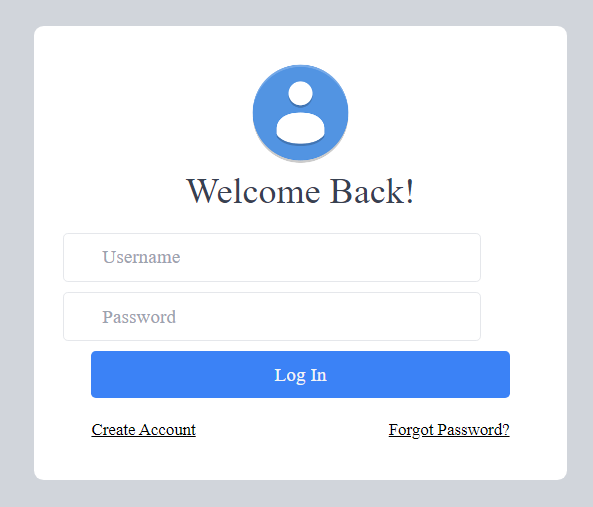
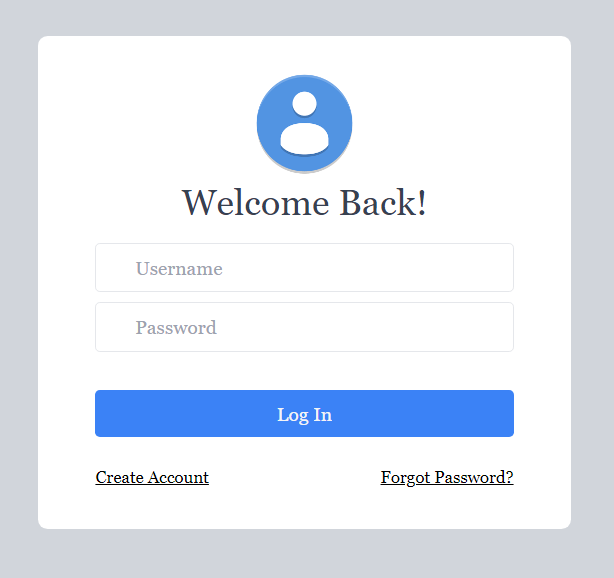
updates

diff --git a/articles/how-to-create-a-responsive-form-using-TailwindCSS/index.md b/articles/how-to-create-a-responsive-form-using-TailwindCSS/index.md
@@ -1,23 +1,20 @@
-# 
 ### Introduction
+Tailwind CSS is one of the most popular frameworks for building custom user interfaces for web applications. It is different from other CSS frameworks because of its utility-first approach.
 
-The usual approach to building websites when working with HTML and CSS is to write the structure in a HTML file then implementing the styles in a CSS file.But now,the new framework-Tailwind CSS allows us to add the styles using classes right in your HTML. 
+When building websites we use write the structure in a HTML file then implement the styles in a CSS file. But now thanks to the new CSS framework Tailwind, we can now add styles directly into our HTML file. 
 
-Tailwind CSS is one of the most popular frameworks for building custom user interfaces for a web application. It is different from other CSS frameworks such as Bootstrap because of the new way of building using utility-first approach rather than the object-oriented one.
-
-During this tutorial,we'll be using Tailwind to build a login form from scratch that will look like this when complete:
+Through this tutorial, we'll be using Tailwind to build a login form from scratch. The form will look like this when complete:
 
 ![Login form](form.png)
 
 ### Adding Tailwind CSS to your project.
+There are various ways of including Tailwind into your project. The most recommended method is to use a package manager in order to make full use of the configuration possibilities via PostCSS using build tools.
+Visit this [link](https://github.com/section-engineering-education/engineering-education/blob/master/articles/introduction-to-tailwind-css/index.md) for the full installation process.
 
-There are multiple ways of including Tailwind into your project.The most recommended method is to use a package manager and then make full use of the configuration possibilities via PostCSS using building tools.
-Visit the link below for the full installation process;https://github.com/section-engineering-education/engineering-education/blob/master/articles/introduction-to-tailwind-css/index.md
+Let's get started on our form!
 
-Now,let's get started on our form!
-
-#### Step 1: Setting up our HTML.
-```HTML
+### Setting up our HTML.
+```html
 <!DOCTYPE html>
 <html lang="en">
   <head>
@@ -28,90 +25,86 @@ Now,let's get started on our form!
       rel="stylesheet" 
       href="./css/tailwind.css" />    
   </head>
-  ```
+</html>
+```
 
-In our snippet, we gave our form a title "Login Form"
+In our snippet, we gave our page a title "Login Form".
 
-Next add the following classes to the ````<body>```` :
-```HTML
- <body class="bg-gray-300" style="font-family:Roboto">
+Now add the `<body>` tag and type in the following classes:
+```html
+ <body class="bg-gray-300" style="font-family:Georgia, 'Times New Roman', Times, serif;">
  ```
 
-In the above snippet, we have added a background  for some color and the font for our form.
+In the above snippet, we have added a background color and the font for our form.
 
-Now add a ``<div>`` with the following classes that wraps around the header(logo), and the form.
+Next add a `<div>` with the following classes to style the header(logo), and the form.
 
-```HTML
-<div class="w-full h-screen flex items-center justify-center">
+```html
+<div class="h-screen flex items-center justify-center">
 ```
 
-In the ``<div>`` we have added classes :
-  - ``w-full``, ``h-screen`` , ``flex`` ``items-center`` ``justify-center`` -which will allow us to set the form to 100% width, 100% height and the rest will allow us to horizontally and vertically align our form to the centre respectively.
+In the `<div>` we have added classes :
+- `h-screen` to set the form to 100% height
+- `flex`, `items-center`, and `justify-center` allow us to horizontally and vertically align our form to the center.
   
-So now lets add our header and the logo:
+So now let's add our header and the logo.
 
-```HTML
- <form class="w-full md:w-96 bg-white rounded-lg">
-         <div class="flex font-bold justify-center mt-6">
-            <img class="h-24 w-24"
-               src="./Images/avatar1.png">
-         </div>
-         <h2 class="text-3xl text-center text-gray-700 mb-4">Welcome Back!</h2>
+```html
+<form class="w-full md:w-1/3 bg-white rounded-lg items-center">
+<div class="flex font-bold justify-center mt-6">
+   <img class="h-24 w-24"
+      src="./Images/avatar1.png">
+</div>
+<h2 class="text-3xl text-center text-gray-700 mb-4">Welcome Back!</h2>
 ```
 
-In the above snippet the classes;
-- ``w-full`` will set the form widt to 100%,
-- ``bg-white`` will set the bacground of our form to white,
-- ``rounded-lg`` will set the edges of the form to be rounded,
-- ``md:w-96`` will set the minimum width to 384px.
-
-Inside the ``<div>`` our logo is designed as follows:
-- ``flex`` will allow items to grow and shrink hence preventing overflow.
-- ``font-bold`` sets our heading to bold
-- ``justify-center`` aligns the heading and logo to center
-- ``mt-6`` sets the margin from top to 24px.
+In the above snippet, the `form` container contains classes;
+- `w-full` which sets the form width to 100%,
+- `bg-white` which sets the background of our form to white,
+- `rounded-lg` which sets the edges of the form to be rounded,
+- `md:w-1/3` which sets the minimum width to 33.333%
+- `items-center` which aligns our form to the center.
   
- We then used the ``<img>`` tag to add and design our logo. the height and the width are both set to 94px (``h-24``,``w-24``).
+Inside the `<div>` our logo is designed as follows:
+- `flex` allows items to grow and shrink hence preventing overflow,
+- `font-bold` sets our heading to bold,
+- `justify-center` aligns the heading and logo to the center,
+- `mt-6` sets the top margin to 24px.
+  
+We then used the `<img>` tag to add and design our logo. The height and the width are both set to 94px (`h-24`, `w-24`).
 
-Our header "Welcome Back!" is set to:
-- font size 30px and line height 36px-``text 3x1``
-- center- ``text-center``
-- color gray-``text-gray-700``
-- margin-bottom to 16px-``mb-4``
+Our header "Welcome Back!": 
+- has a font size of 30px and a line height of 36px-`text 3x1`
+- is center aligned- `text-center`
+- is gray in color-`text-gray-700`
+- has a bottom margin of 16px-`mb-4`
 
-Now, lets build the input fields and style them!
+Let's build the input fields and style them!
 
 Our code will look like this;
 
-```HTML
- <div class="px-12 pb-10">
-            <div class="w-full mb-2">
-               <div class="flex items-center">
-                  <input type='text' placeholder="Username"
-                     class="-mx-6 px-8  w-full border rounded py-2 text-gray-700 focus:outline-none" />
-               </div>
-            </div>
-            <div class="w-full mb-2">
-               <div class="flex items-center">   
-                  <input type='password' placeholder="Password"
-                     class="-mx-6 px-8 w-full border rounded py-2 text-gray-700 focus:outline-none" />
-               </div>
-            </div>
+```html
+<div class="px-12 pb-10">
+<div class="w-full mb-2">
+   <div class="flex justify-center">
+      <input type='text' placeholder="Username"
+         class="px-8  w-full border rounded py-2 text-gray-700 focus:outline-none items-center" />
+   </div>
+</div>
+<div class="w-full mb-2">
+<div class="flex justify-center">   
+   <input type='password' placeholder="Password"
+      class="px-8 w-full border rounded py-2 text-gray-700 focus:outline-none" />
+</div>
 ```            
 
-- So basically our input fields (Username and password) have the same style.
-   
-   1. all items are aligned center using ``items-center`` and display is flex.
-   
-   2. Text is gray in color.(``text-gray-400``).
-
-   3. width is set to 100% (w-full) and the margin bottom to 10px (``mb-2``)- The margin of the Username field from password field.
-
-   4. The borders of both input fields are set to a width of 1px using ``border``.
-
-  
-   5. The margin left and right of the text in the fields are set to 24px using class ``mx-3``, and the padding left and right to 32px using ``px-8``.
-   6. borders are rounded and the border radius set to 4px using class  ``rounded``.
+So basically, our input fields (Username and password) have the same style.
+ * All items are aligned center using `justify-center` and display is flex.   
+ * Text is gray in color. (`text-gray-400`).
+ * Width is set to 100% (`w-full`) and the bottom margin to 10px (`mb-2`).
+ * The borders of both input fields are set to a width of 1px using `border`.
+ * The left and right padding are set to 32px using `px-8`, while the top and bottom margin is 8px-`py-2`.
+ * Borders are rounded and the border radius set to 4px using class `rounded`.
 
 The input fields are done!
 
@@ -119,74 +112,73 @@ Now we add a button at the bottom for our users to log in!
 
 Our code is as follows;
 
-```HTML
- <button type="submit"
-               class="w-full py-2  rounded bg-blue-500 text-gray-100  focus:outline-none ">Log In</button>
+```html
+<button type="submit"
+   class="w-full mt-6 py-2  rounded bg-blue-500 text-gray-100  focus:outline-none ">Log In</button>
 ```
 
-- the button will have rounded borders from class ``rounded-full``,
-- the top and bottom padding to 8px (``py-2``),
-- the button also has a blue background color set by ``bg-blue-500`` and a text color of grey.
-- full width of 100% (``w-full``)
-- and no outline focus``(focus:outline-none``).
+- the button will have rounded borders from class `rounded-full`,
+- the top and bottom padding to 8px (`py-2`),
+- it also has a top margin of 24px (`mt-6`),
+- the button also has a blue background color set by `bg-blue-500` and a text color of grey,
+- full width of 100% (`w-full`),
+- and no outline focus (`focus:outline-none`).
 
-Finally, lets finish our form by adding a link for new users and for users who forgot their passwords!
+Finally, let's finish our form by adding a link for new users and for users who forgot their passwords!
 
-```HTML
-<a href="#" class="text-sm text-opacity-100 float-right mt-4 mb-4 hover:text-blue-600 underline">Forgot Password?</a>
-               <a href="#" class="text-sm text-opacity-100 float-left mt-4 mb-8 hover:text-blue-600 underline">Create Account</a>
+```html
+<a href="#" class="text-sm text-opacity-100 float-right mt-6 mb-4 hover:text-blue-600 underline">Forgot Password?</a>
+<a href="#" class="text-sm text-opacity-100 float-left mt-6 mb-8 hover:text-blue-600 underline">Create Account</a>
 ```
 
-- the links are set to blue on hover (``hover:text-blue-600)
-- the links are underlined (``underline``) with a text size set to small (``text-sm``)
-
-
+- the links are set to blue on hover (`hover:text-blue-600`),
+- the links are underlined (`underline`) with a text size set to small (`text-sm`),
+- both top margins are set to 24px `mt-6`,
+  
 Our form is done!
 
 Here is our full code;
 
-```HTML
-
+```html
 <!DOCTYPE html>
 <html lang="en">
-  <head>
-    <meta charset="UTF-8" />
-    <meta name="viewport" content="width=device-width, initial-scale=1">
-    <title> Login Form</title>
-    <link 
-      rel="stylesheet" 
-      href="./css/tailwind.css" />    
-  </head>
+   <head>
+      <meta charset="UTF-8" />
+      <meta name="viewport" content="width=device-width, initial-scale=1">
+      <title> Login Form</title>
+      <link 
+         rel="stylesheet" 
+         href="./css/tailwind.css" />
+   </head>
    <body class="bg-gray-300" style="font-family:Roboto">
-      <div class="w-full h-screen flex items-center justify-center">
-      <form class="w-full md:w-96 bg-white rounded-lg">
-         <div class="flex font-bold justify-center mt-6">
-            <img class="h-24 w-24"
-               src="./Images/avatar1.png">
+      <div class="px-12 pb-10">
+         <div class="w-full mb-2">
+            <div class="flex justify-center">
+               <input type='text' placeholder="Username"
+                  class="px-8  w-full border rounded py-2 text-gray-700 focus:outline-none items-center" />
+            </div>
          </div>
-         <h2 class="text-3xl text-center text-gray-700 mb-4">Welcome Back!</h2>
-         <div class="px-12 pb-10">
-            <div class="w-full mb-2">
-               <div class="flex items-center">
-                  <input type='text' placeholder="Username"
-                     class="-mx-6 px-8  w-full border rounded py-2 text-gray-700 focus:outline-none" />
-               </div>
+         <div class="w-full mb-2">
+            <div class="flex justify-center">   
+               <input type='password' placeholder="Password"
+                  class="px-8 w-full border rounded py-2 text-gray-700 focus:outline-none" />
             </div>
-            <div class="w-full mb-2">
-               <div class="flex items-center">   
-                  <input type='password' placeholder="Password"
-                     class="-mx-6 px-8 w-full border rounded py-2 text-gray-700 focus:outline-none" />
-               </div>
+         </div>
+         <div class="w-full mb-2 justify-center">
+            <div class="flex items-center">   
+               <input type='password' placeholder="Password"
+                  class="px-8 w-full border rounded py-2 text-gray-700 focus:outline-none" />
             </div>
-            <button type="submit"
-               class="w-full py-2  rounded bg-blue-500 text-gray-100  focus:outline-none ">Log In</button>
-               <a href="#" class="text-sm text-opacity-100 float-right mt-4 mb-4 hover:text-blue-600 underline">Forgot Password?</a>
-               <a href="#" class="text-sm text-opacity-100 float-left mt-4 mb-8 hover:text-blue-600 underline">Create Account</a>
-      </form>
+         </div>
+         <button type="submit"
+            class="w-full mt-6 py-2 rounded bg-blue-500 text-gray-100 focus:outline-none">Log In</button>
+         <a href="#" class="text-sm text-opacity-100 float-right mt-6 mb-4 hover:text-blue-600 underline">Forgot Password?</a>
+         <a href="#" class="text-sm text-opacity-100 float-left mt-6 mb-8 hover:text-blue-600 underline">Create Account</a>
+      </div>
       </div>
    </body>
 </html>
 ```
 
 ### Conclusion.
-A log in form is a simple example since it uses many of the key Tailwind classes.Hopefully this tutorial has shown just  how easy and fast custom components can be built using Tailwind.
+A log in form is a simple example since it uses many of the key Tailwind classes. Hopefully this tutorial has shown just how easy and fast custom components can be built using Tailwind.

diff --git a/authors/monica-masae/index.md b/authors/monica-masae/index.md
@@ -1,0 +1,5 @@
+---
+title: Monica Masae
+type: engineering-education/author
+---
+Monica Masae is a student at University of Nairobi. She is also a self-taught programmer, with a great passion in web designing and development. 
